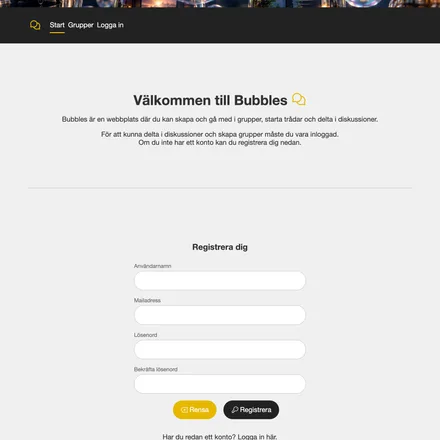
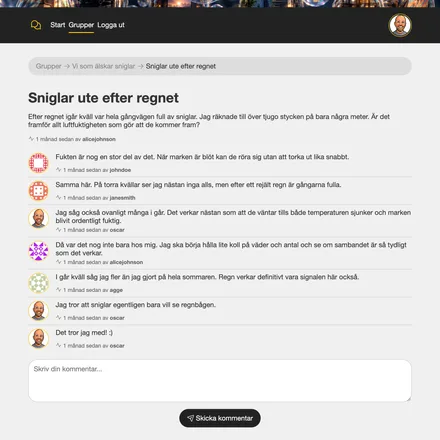
feat: implement image carousel for project cards

diff --git a/frontend/src/components/Projects/Card.tsx b/frontend/src/components/Projects/Card.tsx
@@ -1,5 +1,6 @@
 import { useEffect, useRef } from 'react'
 import { Link } from 'react-router-dom'
+import CardImages from './CardImages'
 import ExternalLinks from './ExternalLinks'
 import TechStack from './CardTechStack'
 import { LinkForward } from '../ui/Link'
@@ -7,11 +8,6 @@ import { LinkForward } from '../ui/Link'
 import type { Project } from '@portfolio/shared'
 
 import styles from './Card.module.css'
-
-const projectImages = import.meta.glob('../../assets/projects/*', {
-  eager: true,
-  import: 'default'
-}) as Record<string, string>
 
 const animatedCards = new Set<Project['id']>()
 const animatedCardLinks = new Set<Project['id']>()
@@ -72,9 +68,6 @@ export default function Card({ project }: { project: Project }) {
     }
   }, [project.id])
 
-  const projectImage = getProjectImage(project.image)
-  const projectImage2x = getProjectImage(project.image, 880)
-
   return (
     <article
       ref={cardRef}
@@ -82,35 +75,33 @@ export default function Card({ project }: { project: Project }) {
       data-visible={animatedCards.has(project.id) ? 'true' : 'false'}
       data-links-visible={animatedCardLinks.has(project.id) ? 'true' : 'false'}
     >
-      <div className={styles.visuals}>
-        <figure>
-          <img
-            src={projectImage}
-            srcSet={`${projectImage} 1x, ${projectImage2x} 2x`}
-            width={440}
-            height={440}
-            alt={`Bild för projektet ${project.name}`}
-            className={styles.image}
-          />
-        </figure>
-
-        <div
-          ref={figureBottomRef}
-          className={styles.figureBottomSentinel}
-          aria-hidden="true"
+    <div className={styles.visuals}>
+      <figure className={styles.figure}>
+        <CardImages
+          key={project.id}
+          images={project.images}
+          projectName={project.name}
         />
+      </figure>
 
-        {project.links && (
-          <ExternalLinks 
-            links={project.links} 
-            theme="dark" 
-            animate={true} 
-            position="absolute"
-            tooltipPosition="bottom"
-          />
-        )}
-        {project.techStack && <TechStack techStack={project.techStack} />}
-      </div>
+      <div
+        ref={figureBottomRef}
+        className={styles.figureBottomSentinel}
+        aria-hidden="true"
+      />
+
+      {project.links && (
+        <ExternalLinks
+          links={project.links}
+          theme="dark"
+          animate={true}
+          position="absolute"
+          tooltipPosition="bottom"
+        />
+      )}
+
+      {project.techStack && <TechStack techStack={project.techStack} />}
+    </div>
 
       <header>
         <Link className={styles['title-link']} to={`/project/${project.id}`}>
@@ -133,13 +124,4 @@ export default function Card({ project }: { project: Project }) {
       </nav>
     </article>
   )
-}
-
-function getProjectImage(filename?: string, size = 440) {
-  if (!filename) return '/img/placeholder.webp'
-
-  const name = filename.replace(/\.[^.]+$/, '')
-  const path = `../../assets/projects/${name}-${size}.webp`
-
-  return projectImages[path] ?? '/img/placeholder.webp'
 }

diff --git a/frontend/src/components/Projects/CardImages.tsx b/frontend/src/components/Projects/CardImages.tsx
@@ -1,0 +1,72 @@
+import { useEffect, useState } from 'react'
+
+import styles from './CardImages.module.css'
+
+const projectImages = import.meta.glob('../../assets/projects/*', {
+  eager: true,
+  import: 'default'
+}) as Record<string, string>
+
+type Props = {
+  images?: string[]
+  projectName: string
+}
+
+export default function CardImages({ images = [], projectName }: Props) {
+  const [activeIndex, setActiveIndex] = useState(0)
+
+  useEffect(() => {
+    if (images.length <= 1) return
+
+    const interval = window.setInterval(() => {
+      setActiveIndex(current => (current + 1) % images.length)
+    }, 5000)
+
+    return () => window.clearInterval(interval)
+  }, [images.length])
+
+  if (images.length === 0) {
+    return (
+      <img
+        src="/img/placeholder.webp"
+        width={440}
+        height={440}
+        alt=""
+        className={styles.image}
+      />
+    )
+  }
+
+  return (
+    <>
+      {images.map((filename, index) => {
+        const image = getProjectImage(filename)
+        const image2x = getProjectImage(filename, 880)
+
+        return (
+          <img
+            key={filename}
+            src={image}
+            srcSet={`${image} 1x, ${image2x} 2x`}
+            width={440}
+            height={440}
+            alt={
+              index === 0
+                ? `Bild för projektet ${projectName}`
+                : ''
+            }
+            className={styles.image}
+            data-active={index === activeIndex}
+          />
+        )
+      })}
+    </>
+  )
+}
+
+function getProjectImage(filename: string, size = 440) {
+  const name = filename.replace(/\.[^.]+$/, '')
+  const path = `../../assets/projects/${name}-${size}.webp`
+
+  return projectImages[path] ?? '/img/placeholder.webp'
+}

diff --git a/frontend/src/components/Projects/Card.module.css b/frontend/src/components/Projects/Card.module.css
@@ -89,6 +89,7 @@
 }
 
 .visuals figure {
+  position: relative;
   width: 100%;
   height: 100%;
   margin: 0;
@@ -120,21 +121,6 @@
     rgba(255, 255, 255, .25) 48%,
     rgba(255, 255, 255, 0) 48%
   ); */
-}
-
-.image {
-  position: relative;
-  width: 100%;
-  height: 100%;
-  display: block;
-
-  
-  object-fit: cover;
-  object-position: 40% center;
-
-  @media (max-width: 768px) {
-    object-position: center center;
-  }
 }
 
 nav {

diff --git a/frontend/src/components/Projects/CardImages.module.css b/frontend/src/components/Projects/CardImages.module.css
@@ -1,0 +1,20 @@
+.image {
+  position: absolute;
+  inset: 0;
+
+  width: 100%;
+  height: 100%;
+  object-fit: cover;
+  object-position: 40% center;
+
+  opacity: 0;
+  transition: opacity 1s ease-in-out;
+
+  @media (max-width: 768px) {
+    object-position: center;
+  }
+}
+
+.image[data-active='true'] {
+  opacity: 1;
+}

diff --git a/shared/src/project.types.ts b/shared/src/project.types.ts
@@ -14,7 +14,7 @@ export interface ProjectData {
     id: number
     name: string
   }
-  image?: string
+  images?: string[]
 }
 
 export interface Project extends Omit<ProjectData, 'techStack'> {
